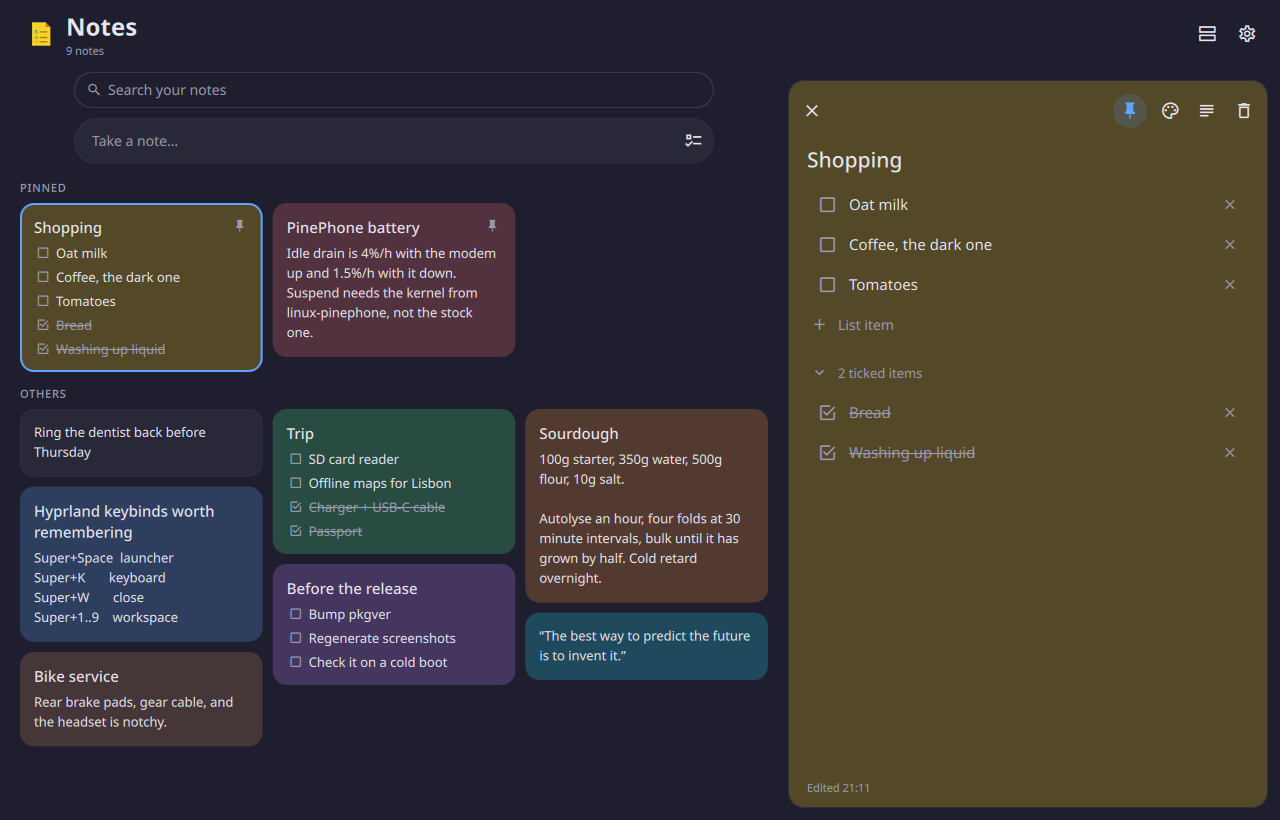
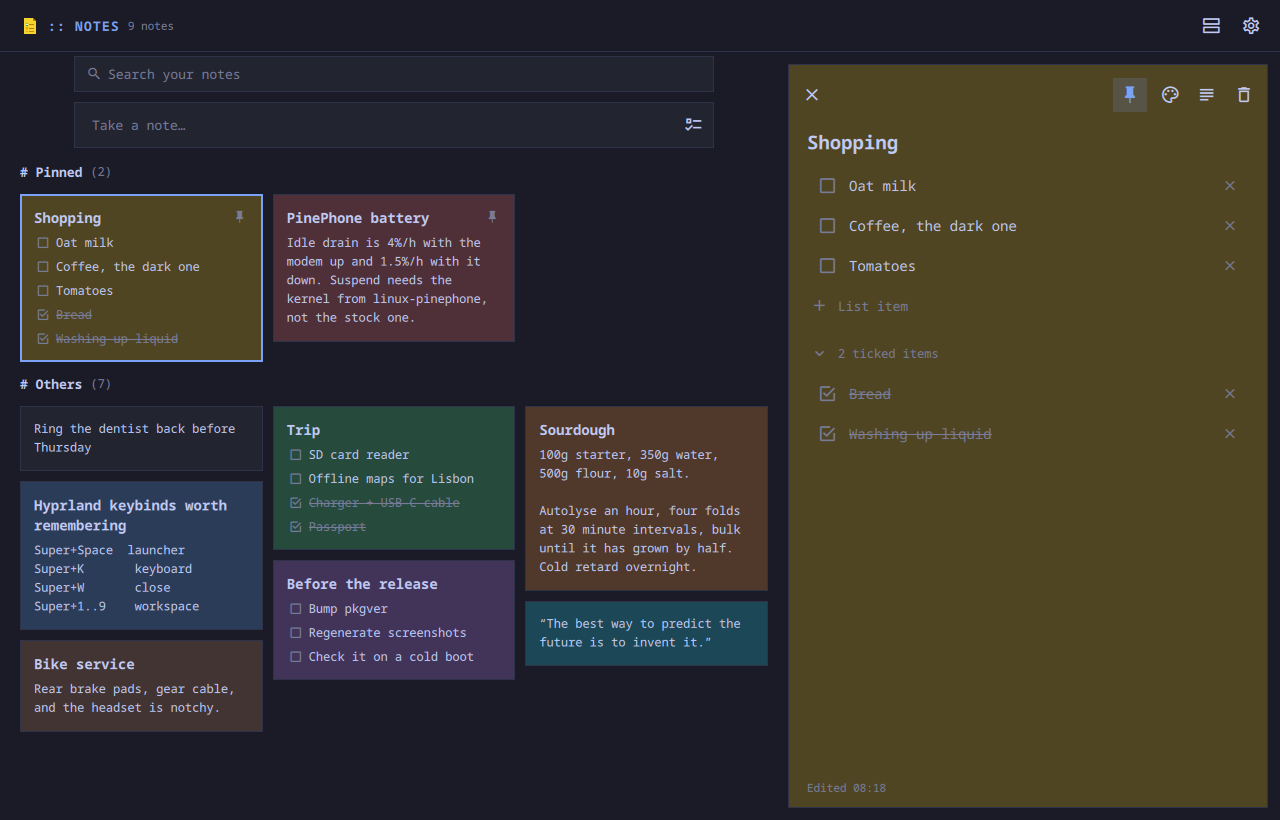
Notes in Omarchy's look: lined cards, square swatches, '# Pinned (2)'
Every note is a lined box now, coloured ones too, so a wall of notes reads
as a grid rather than a patchwork. The colour swatches and the take-a-note
bar are square, and the two groups are headed the way Omarchy heads a
catalogue: '# Pinned (2)', '# Others (7)'.

diff --git a/apps/keep/NoteCard.qml b/apps/keep/NoteCard.qml
@@ -16,10 +16,12 @@ Rectangle {
 
   readonly property var shown: note.kind === N.LIST ? N.preview(note) : null
   implicitHeight: col.implicitHeight + 28
-  radius: app.ui.radius + 4
+  radius: app.ui.radius
   color: app.noteFill(note.colour)
-  border.width: selected ? 2 : note.colour === "default" ? 1 : 0
-  border.color: selected ? app.ui.accent : app.ui.divider
+  // Every note is a lined box, a coloured one too: the line is what makes a
+  // wall of notes a grid rather than a patchwork.
+  border.width: selected ? 2 : 1
+  border.color: selected ? app.ui.accent : app.ui.line
   Accessible.role: Accessible.Button
   Accessible.name: note.title || "Note"
 
@@ -50,7 +52,7 @@ Rectangle {
         color: root.app.ui.text
         font.family: root.app.ui.font
         font.pixelSize: root.app.ui.fs.md + 1
-        font.weight: Font.DemiBold
+        font.weight: Font.Bold
       }
       Icon {
         visible: root.note.pinned

diff --git a/apps/keep/NotesView.qml b/apps/keep/NotesView.qml
@@ -77,16 +77,11 @@ Item {
           width: lanes.width
           spacing: 8
 
-          Text {
+          SectionTitle {
             visible: root.labelled
-            topPadding: 6
+            app: root.app
             text: section.modelData.title
-            color: root.app.ui.muted
-            font.family: root.app.ui.font
-            font.pixelSize: root.app.ui.fs.xs
-            font.weight: Font.DemiBold
-            font.capitalization: Font.AllUppercase
-            font.letterSpacing: 0.8
+            note: String(section.modelData.notes.length)
           }
 
           Row {

diff --git a/apps/keep/Panel.qml b/apps/keep/Panel.qml
@@ -342,15 +342,15 @@ App {
     anchors.margins: 12
     width: active ? Math.min(480, parent.width * 0.45) : 0
     sourceComponent: Rectangle {
-      radius: root.ui.radius + 6
+      radius: root.ui.radius
       color: "transparent"
       border.width: 1
-      border.color: root.ui.divider
+      border.color: root.ui.line
       clip: true
       NoteEditor {
         anchors.fill: parent
         anchors.margins: 1
-        radius: root.ui.radius + 5
+        radius: root.ui.radius
         app: root
         noteId: root.openId
         fresh: root.openFresh

diff --git a/apps/keep/ColourGrid.qml b/apps/keep/ColourGrid.qml
@@ -29,10 +29,10 @@ Flow {
       Rectangle {
         anchors.fill: parent
         anchors.margins: 3
-        radius: width / 2
+        radius: root.app.ui.radius
         color: root.app.noteFill(swatch.modelData.key)
         border.width: swatch.current ? 2 : 1
-        border.color: swatch.current ? root.app.ui.accent : root.app.ui.border
+        border.color: swatch.current ? root.app.ui.accent : root.app.ui.line
       }
       Icon {
         anchors.centerIn: parent

diff --git a/apps/keep/NoteEditor.qml b/apps/keep/NoteEditor.qml
@@ -206,7 +206,7 @@ Rectangle {
         selectedTextColor: root.app.ui.inkOnAccent
         font.family: root.app.ui.font
         font.pixelSize: root.app.ui.fs.lg + 4
-        font.weight: Font.DemiBold
+        font.weight: Font.Bold
         inputMethodHints: Qt.ImhNoPredictiveText
         onTextChanged: if (root.draft && text !== root.draft.title) { root.draft.title = text; root.touched() }
         // Enter in the title goes to the note: a title is one line.

diff --git a/apps/keep/TakeBar.qml b/apps/keep/TakeBar.qml
@@ -9,10 +9,10 @@ Rectangle {
   property var app
 
   height: bar.app.ui.target + 8
-  radius: height / 2
+  radius: bar.app.ui.radius
   color: bar.app.ui.surface
   border.width: 1
-  border.color: bar.app.ui.divider
+  border.color: bar.app.ui.line
   Text {
     anchors.left: parent.left
     anchors.leftMargin: 18
